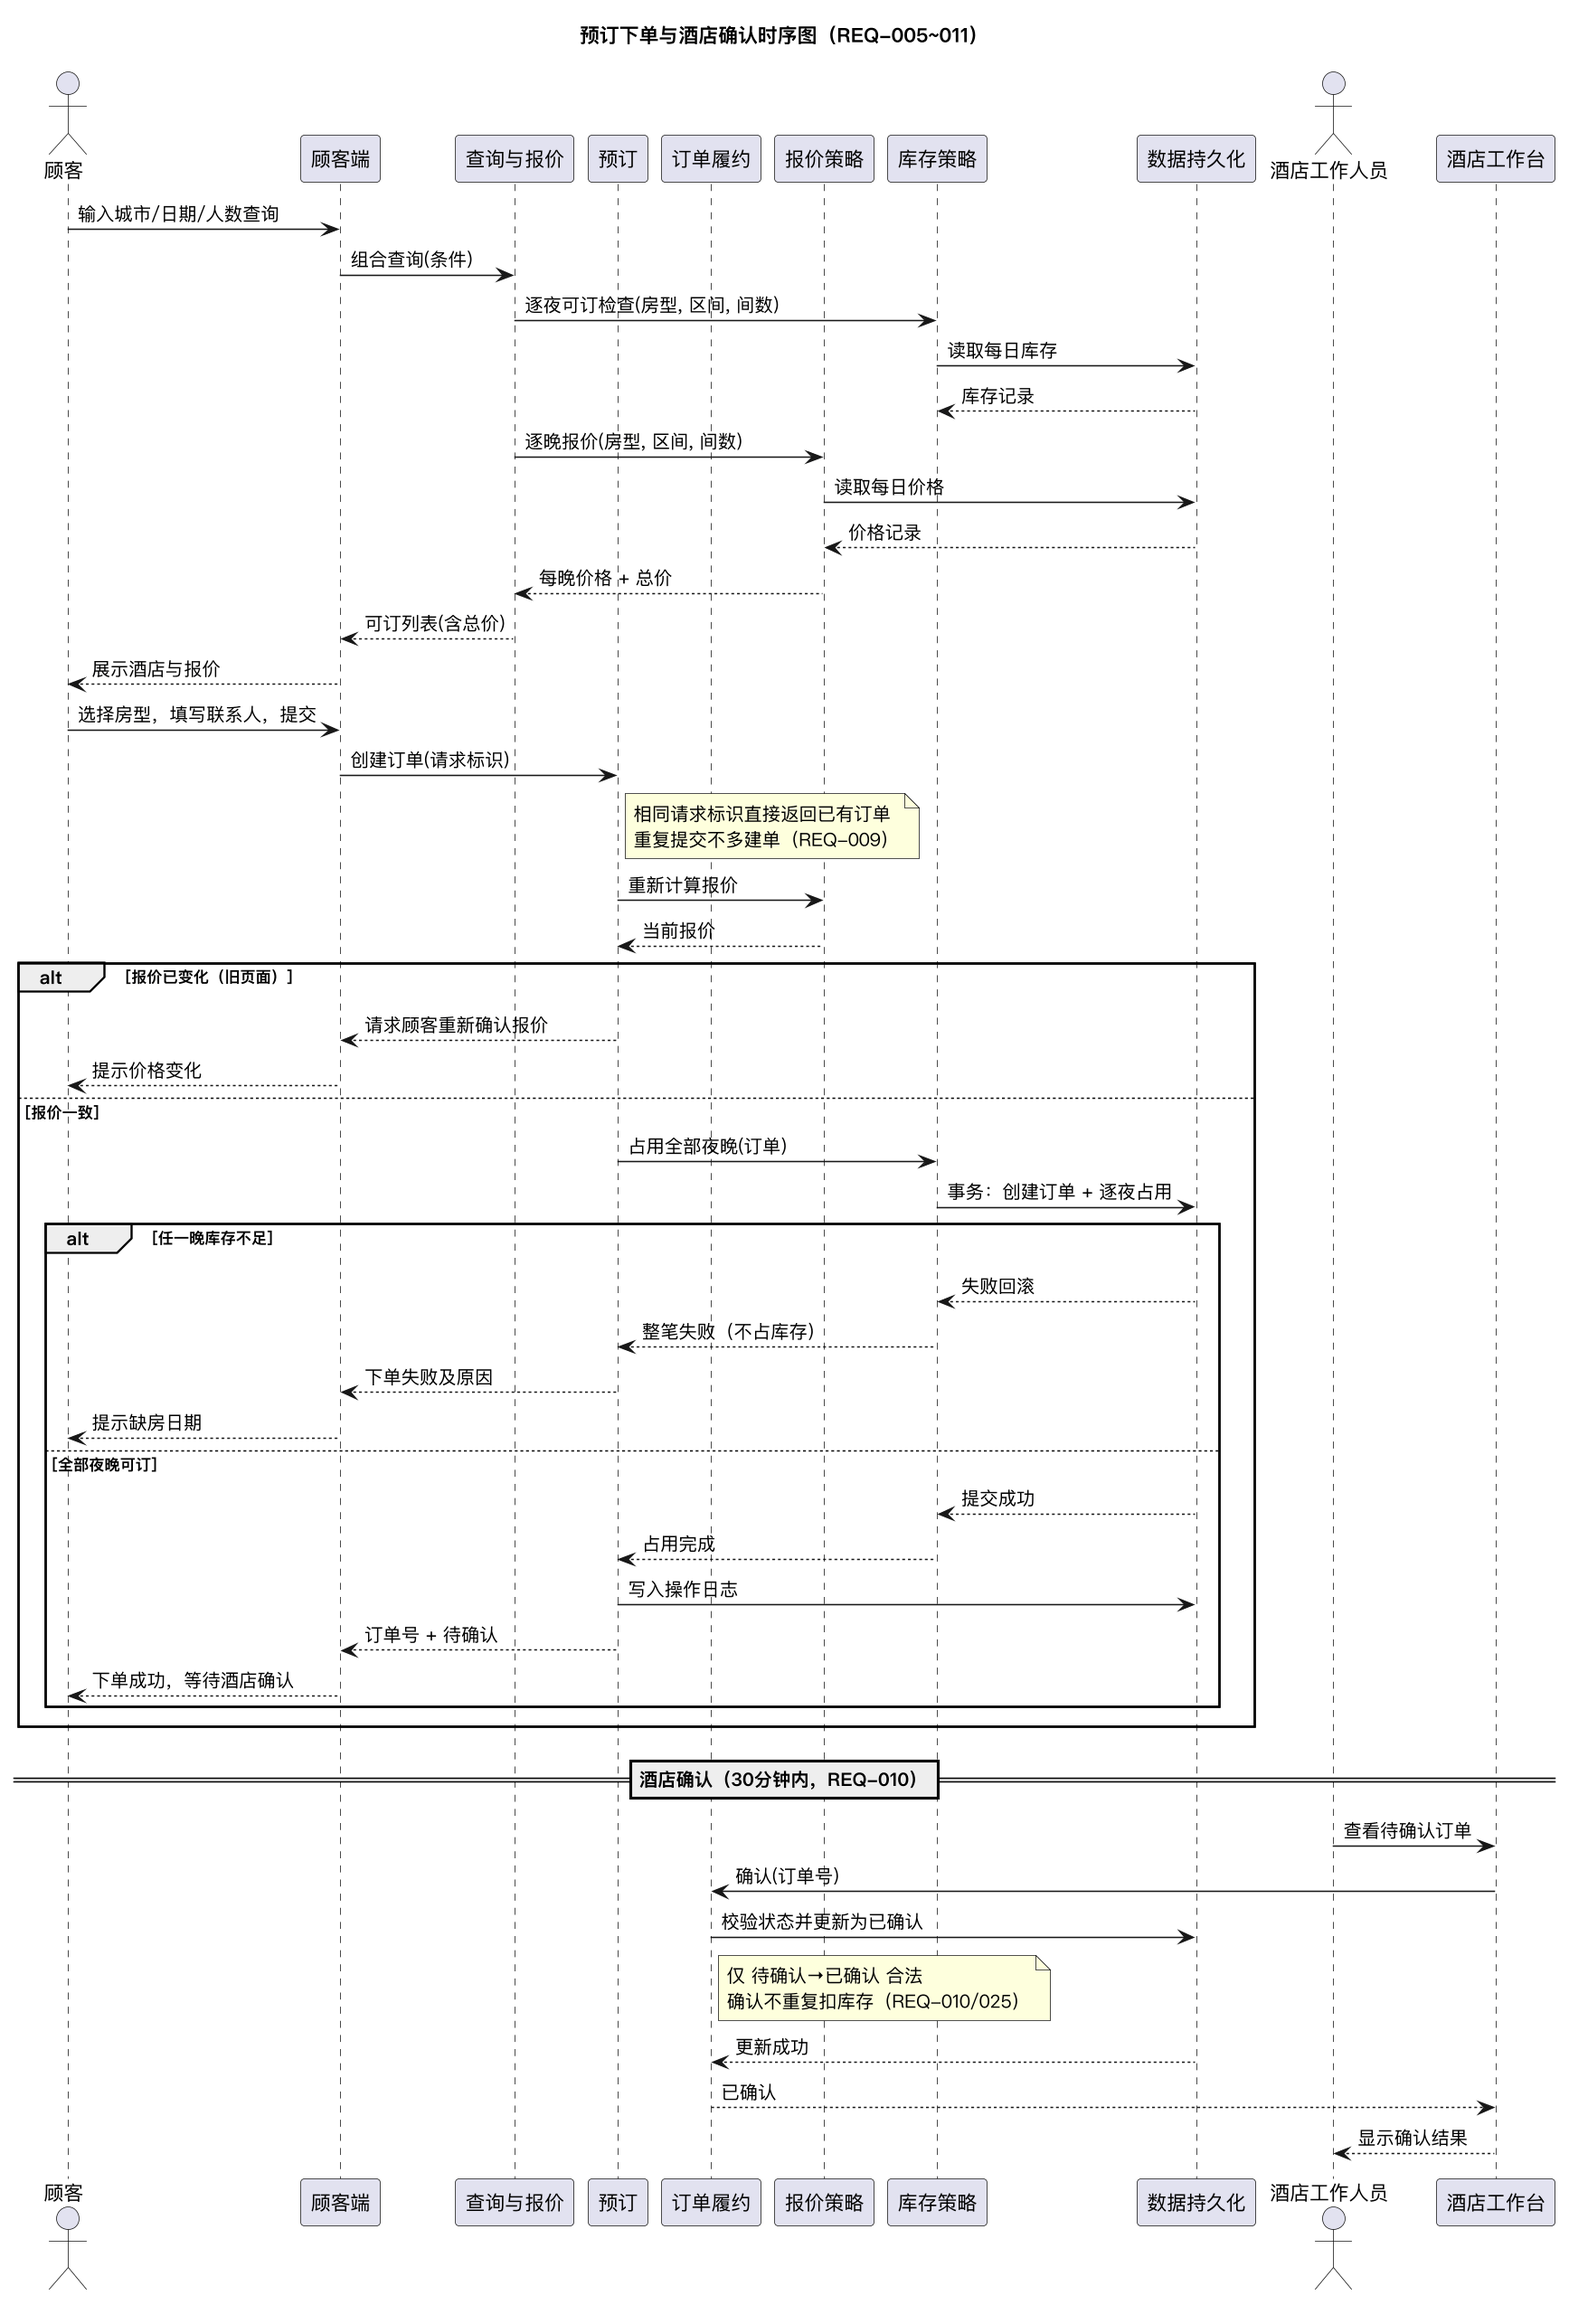
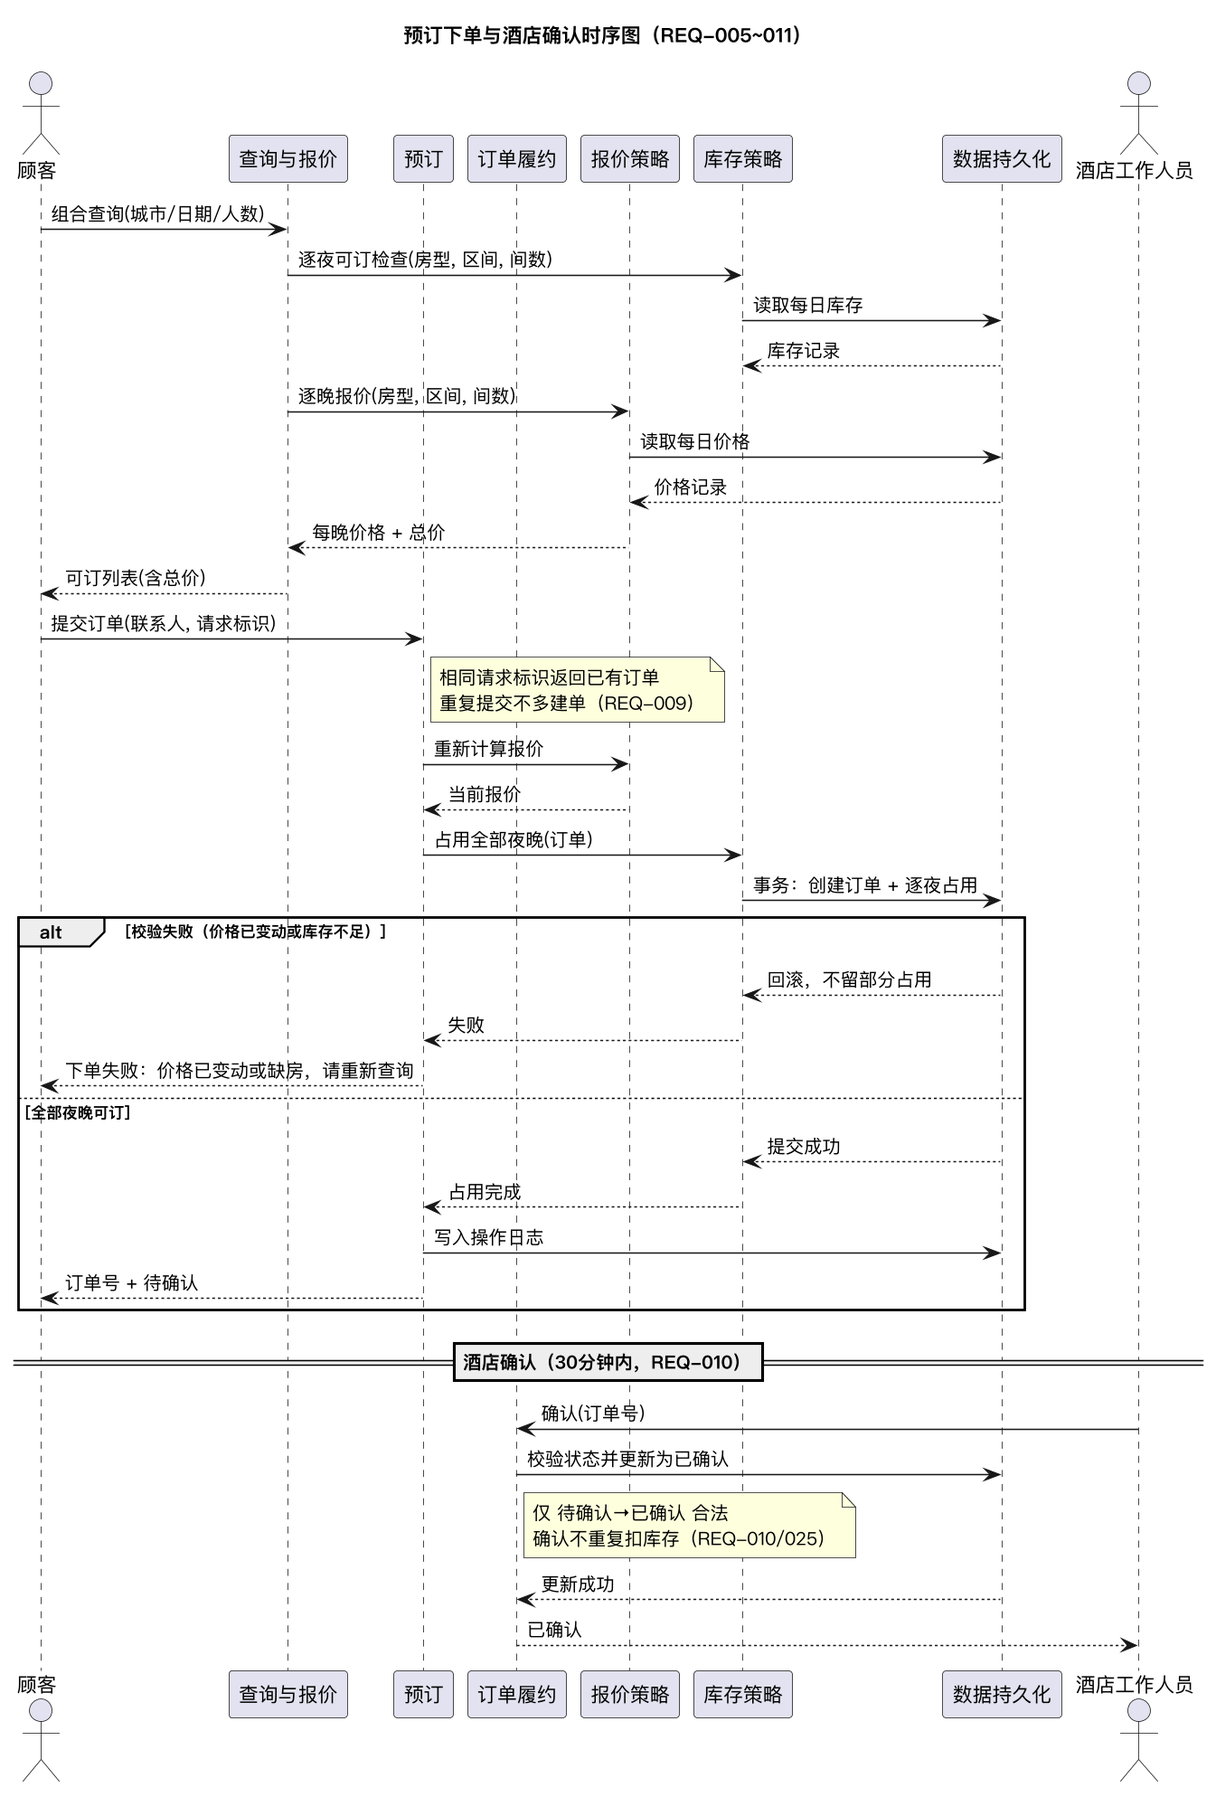
人工反馈+AI修改(lab2): 时序图简化——去表现层参与者、价格变动直接失败

diff --git a/lab2/过程材料/AI使用记录.md b/lab2/过程材料/AI使用记录.md
@@ -106,7 +106,8 @@
 
 ### 生成与迭代过程（共 1 次渲染）
 
-1. **第 1 版（当前稿）**：参与者按架构分层选取（顾客/顾客端/查询与报价/预订/订单履约/报价策略/库存策略/数据持久化/酒店工作人员/酒店工作台）；两段结构：下单（含 alt 报价变化分支、alt 库存不足回滚分支）与酒店确认（分隔线标注 30 分钟时限）。一次渲染即满足要求。
+1. **第 1 版**：参与者含表现层（顾客端/酒店工作台），含 alt 报价变化请顾客重新确认分支。
+2. **第 2 版（人工反馈驱动，当前稿）**：本人指出两点并据此简化：① 去掉表现层参与者（顾客端/酒店工作台只是"传声筒"，不应与业务服务并列），角色直接与应用服务交互；② 价格变化不做"重新确认"流程，提交时校验不一致直接下单失败、提示重新查询，保持过程简洁；两个 alt 合并为一个"校验失败（价格已变动或库存不足）"分支。
 
 ### 设计要点（AI 草案，待本人确认）
 
